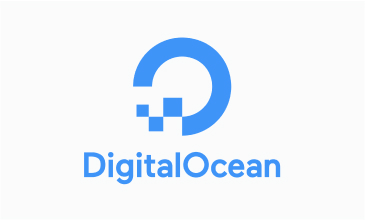
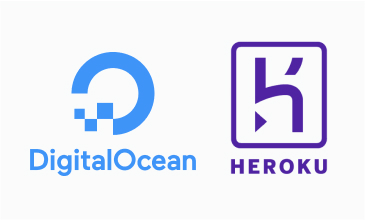
update the card of technologies and service

diff --git a/pages/technologies/index.js b/pages/technologies/index.js
@@ -4,18 +4,14 @@ import Scroll from "react-scroll";
 
 function technologies() {
   var Link = Scroll.Link;
-  var DirectLink = Scroll.DirectLink;
   var Element = Scroll.Element;
-  var Events = Scroll.Events;
-  var scroll = Scroll.animateScroll;
-  var scrollSpy = Scroll.scrollSpy;
 
   return (
     <div className="">
       {/* Hero Section */}
       <section className="bg-blue-100 max-h-[1000px] z-30 relative overflow-hidden">
-        <div className="new-container grid grid-cols-1 md:grid-cols-12   min-h-[80vh]  ">
-          <div className="md:col-span-5">
+        <div className=" grid grid-cols-1 md:grid-cols-12 lg:new-container  min-h-[80vh]  ">
+          <div className="md:col-span-5 new-container">
             <h2 className="pt-40 text-4xl font-semibold">
               {technologies_page.hero_heading}
             </h2>
@@ -27,7 +23,7 @@ function technologies() {
               Contact Us For More Information
             </a>
           </div>
-          <div className="md:col-span-7 mt-10 md:mt-20 lg:mt-10 scale-90  lg:absolute lg:-right-8">
+          <div className="md:col-span-7 mt-10 md:mt-20 lg:mt-10 lg:scale-90  lg:absolute lg:-right-8">
             <img
               src={technologies_page.hero_image}
               alt="Image of technologies in rounded circle"
@@ -134,11 +130,10 @@ function technologies() {
         <div className="new-container lg:pl-32 2xl:pl-0 ">
           <Element
             name="test7"
-            className="element"
+            className="element lg:h-screen"
             id="containerElement"
             style={{
               position: "relative",
-              height: '100vh',
               overflow: "scroll",
               marginBottom: "100px",
             }}

diff --git a/constants/constants.js b/constants/constants.js
@@ -1028,13 +1028,13 @@ export const technologies_page = {
       bookmark: "Cloud",
 
       paragraph:
-        " We offer custom cloud computing services to make things easy to handle all The activities and to free up precious human resources for ventures and core business functions. With the aid of our innovative approach, we are helping organizations enhance operating performance and flexibility. ",
+      "We are well versed with all popular cloud services.",
       stacks: [
         {
           image: "assets/img/tech_stack/tech_stack_aws.jpg",
           tech_name: "AWS",
           descripition:
-          "We are well experienced working with both AWS and Google Cloud. For early stage startups AWS is generally more suited and is the dominant player in Public cloud offering; but for specific use cases we have ample capability to work with GCP too."
+          "We are well experienced working with AWS. For early stage startups AWS is generally more suited and is the dominant player in Public cloud offering."
         },
         {
           image: "assets/img/tech_stack/tech_stack_google.jpg",
@@ -1046,7 +1046,7 @@ export const technologies_page = {
           image: "assets/img/tech_stack/tech_stack_digital.jpg",
           tech_name: "Others",
           descripition:
-          "Heroku, Digital Ocean and onpremise etc"
+          "We also worked with many other cloud platform like Digital Ocean, Heroku and onpremise etc according to clients requirements to provide best solution for their problem"
         },
        
       ],

diff --git a/components/EnterpriseCard.js b/components/EnterpriseCard.js
@@ -1,7 +1,7 @@
 import { ArrowRightIcon } from "@heroicons/react/solid";
 function EnterpriseCard({ data }) {
   return (
-    <div className={`bg-green-100 grid md:grid-cols-2 lg:bg-enterprise_image bg-no-repeat bg-right px-4 py-8 md:p-16 md:h-[550px]  mb-20`}>
+    <div className={`bg-[#87A9A6] grid md:grid-cols-2 lg:bg-enterprise_image bg-no-repeat bg-right px-4 py-8 md:p-16 md:h-[550px]  mb-20`}>
       <div className="">
         <h1 className="font-semibold text-2xl md:text-4xl">{data.heading}</h1>
         <p className="mt-2 text-sm md:text-base">
@@ -17,7 +17,7 @@ function EnterpriseCard({ data }) {
             <ArrowRightIcon className="w-6 ml-2 " />
           </a>
         </div>
-        <div className={'bg-green-400 md:w-3/4 p-2 md:p-4  mt-44 bottom-2'}>
+        <div className={'bg-[#476866] text-white md:w-3/4 p-2 md:p-4  mt-44 bottom-2'}>
           <p>{data.highlight}</p>
         </div>
       </div>

diff --git a/components/TechStack.js b/components/TechStack.js
@@ -1,7 +1,7 @@
 import Link from 'next/link'
 function TechStack() {
     return (
-        <div className="new-container text-black md:text-white px-6  md:px-32 py-6 md:py-12  md:bg-tech_stack md:min-h-[700px] bg-no-repeat">
+        <div className="new-container   px-6  md:px-32 py-6 md:py-12 bg-primary md:bg-white text-white  md:bg-tech_stack md:min-h-[700px] bg-no-repeat">
             <div className="text-center">
                 <h1 className="text-2xl lg:text-5xl font-semibold mt-10">Tech Stack</h1>
                 <p className="mt-4  font-light md:w-10/12 mx-auto leading-normal">

diff --git a/README.md b/README.md
@@ -18,3 +18,6 @@ cd out
 <!-- aws s3 cp . s3://hcode.tech --recursive  --content-type 'text/html' --exclude "*"  --include "*.html" -->
 
 <!-- https://github.com/github/gitignore/blob/master/Node.gitignore -->
+
+for old in *.html; do mv $old `basename $old .html`''; done 
+
